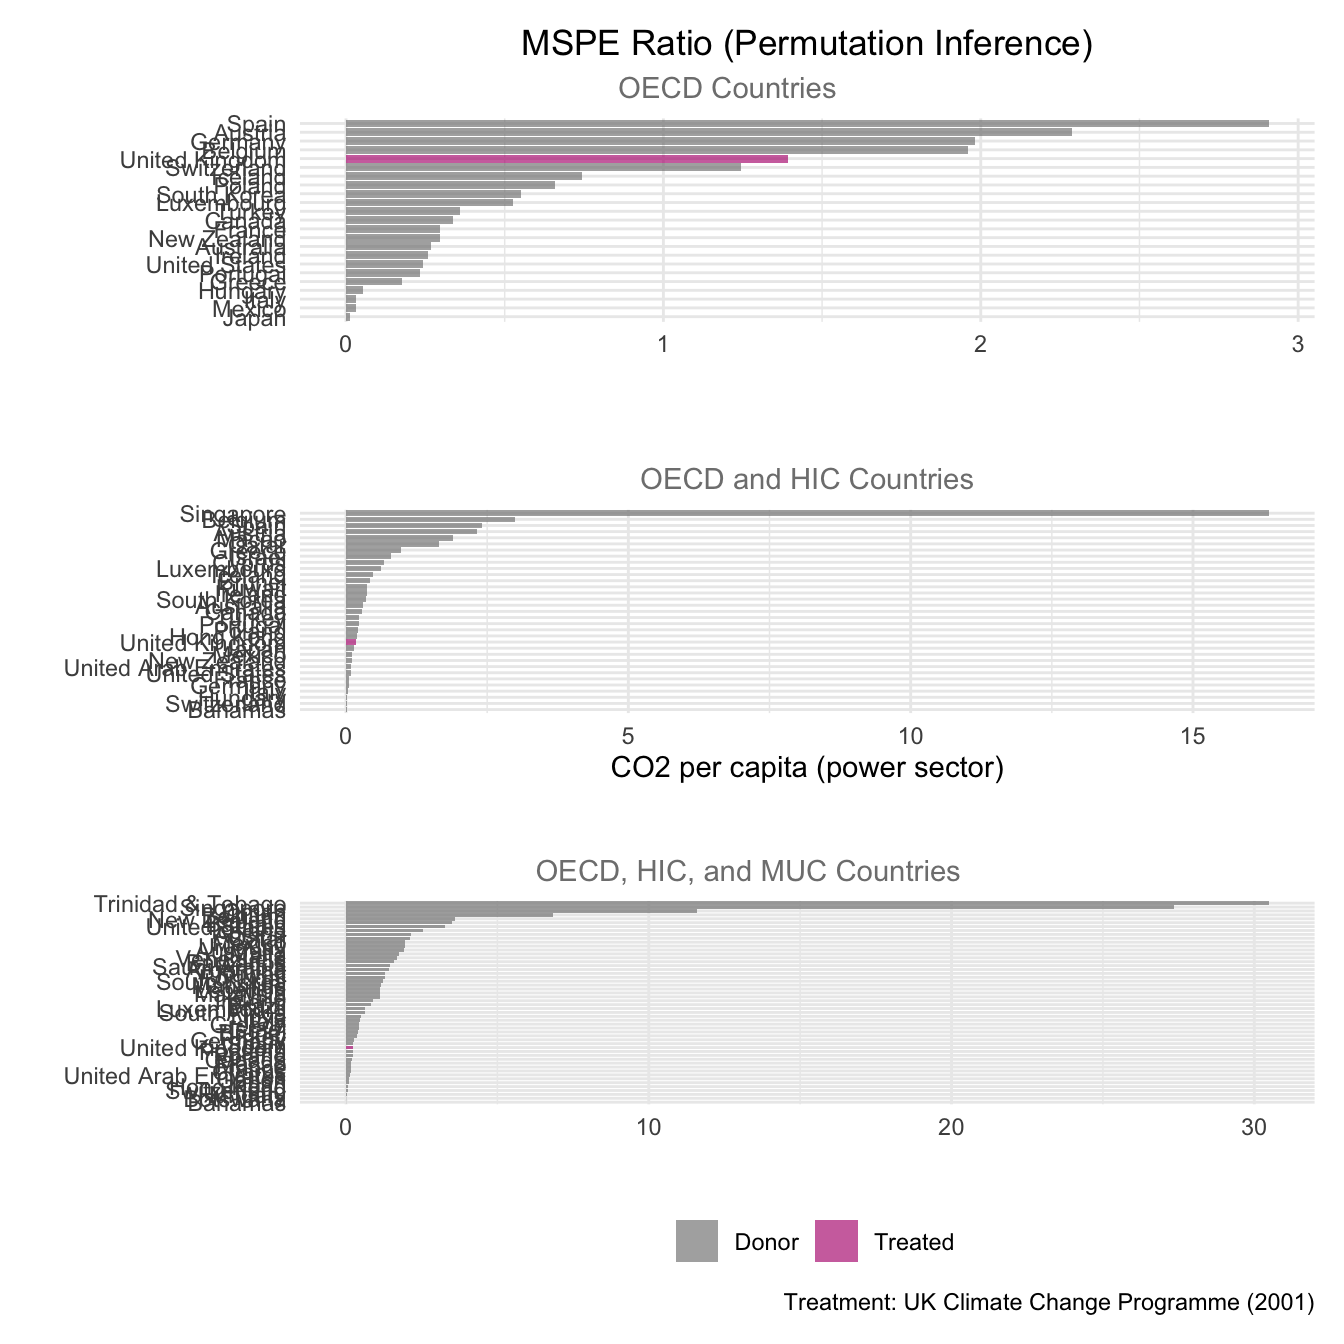
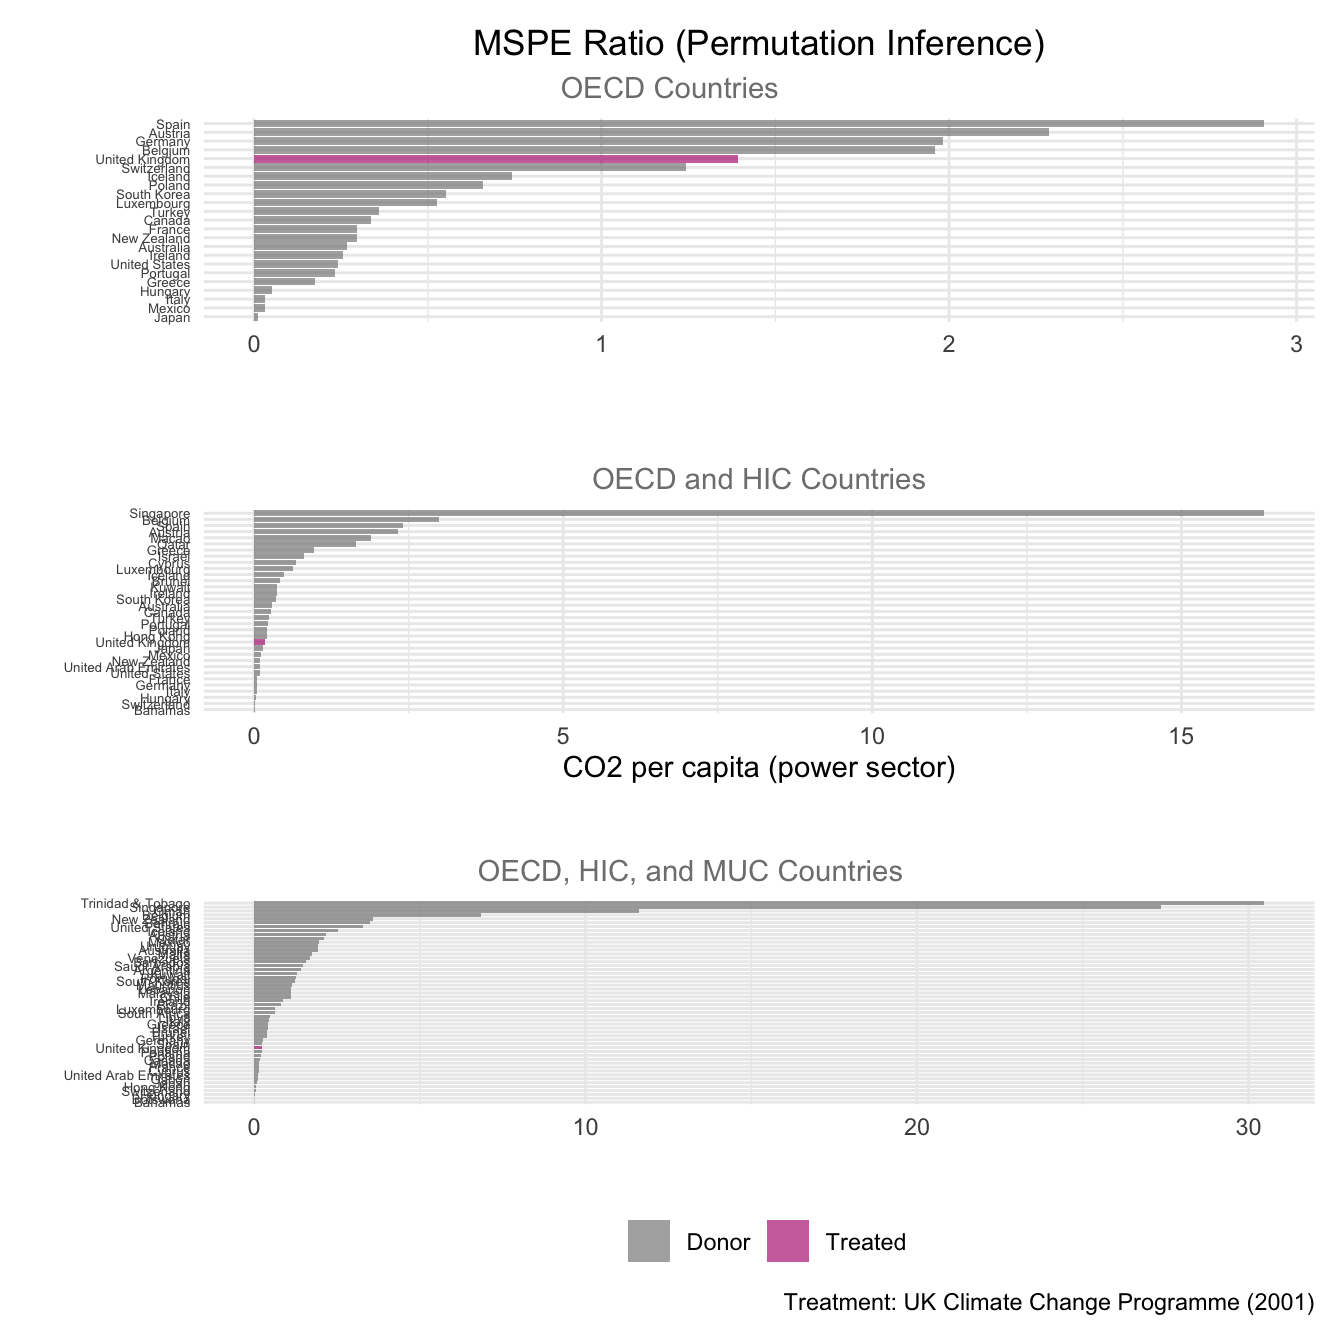
idk what this is. I just want to pull

diff --git a/eds-241-carbon-blog-draft.html b/eds-241-carbon-blog-draft.html
@@ -636,36 +636,42 @@ window.Quarto = {
 <span id="cb11-7"><a href="#cb11-7" aria-hidden="true" tabindex="-1"></a>       <span class="at">caption =</span> <span class="cn">NULL</span>)<span class="sc">+</span></span>
 <span id="cb11-8"><a href="#cb11-8" aria-hidden="true" tabindex="-1"></a>  <span class="fu">theme</span>(<span class="at">legend.position =</span> <span class="st">"none"</span>, </span>
 <span id="cb11-9"><a href="#cb11-9" aria-hidden="true" tabindex="-1"></a>        <span class="at">plot.title =</span> <span class="fu">element_text</span>(<span class="at">hjust =</span> <span class="fl">0.5</span>), </span>
-<span id="cb11-10"><a href="#cb11-10" aria-hidden="true" tabindex="-1"></a>        <span class="at">plot.subtitle =</span> <span class="fu">element_text</span>(<span class="at">color =</span> <span class="st">"grey50"</span>, <span class="at">hjust =</span> <span class="fl">0.4</span>)) </span>
-<span id="cb11-11"><a href="#cb11-11" aria-hidden="true" tabindex="-1"></a></span>
-<span id="cb11-12"><a href="#cb11-12" aria-hidden="true" tabindex="-1"></a></span>
-<span id="cb11-13"><a href="#cb11-13" aria-hidden="true" tabindex="-1"></a><span class="co"># data_OECD_HIC</span></span>
-<span id="cb11-14"><a href="#cb11-14" aria-hidden="true" tabindex="-1"></a>p4_data_OECD_HIC <span class="ot">&lt;-</span> scm_data_OECD_HIC <span class="sc">%&gt;%</span></span>
-<span id="cb11-15"><a href="#cb11-15" aria-hidden="true" tabindex="-1"></a>  <span class="fu">plot_mspe_ratio</span>() <span class="sc">+</span></span>
-<span id="cb11-16"><a href="#cb11-16" aria-hidden="true" tabindex="-1"></a>  <span class="fu">labs</span>(<span class="at">title =</span> <span class="st">""</span>,</span>
-<span id="cb11-17"><a href="#cb11-17" aria-hidden="true" tabindex="-1"></a>       <span class="at">subtitle =</span> <span class="st">"OECD and HIC Countries"</span>,</span>
-<span id="cb11-18"><a href="#cb11-18" aria-hidden="true" tabindex="-1"></a>       <span class="at">y =</span> <span class="st">"CO2 per capita (power sector)"</span>,</span>
-<span id="cb11-19"><a href="#cb11-19" aria-hidden="true" tabindex="-1"></a>       <span class="at">x =</span> <span class="st">""</span>, </span>
-<span id="cb11-20"><a href="#cb11-20" aria-hidden="true" tabindex="-1"></a>       <span class="at">caption =</span> <span class="cn">NULL</span>)<span class="sc">+</span></span>
-<span id="cb11-21"><a href="#cb11-21" aria-hidden="true" tabindex="-1"></a>  <span class="fu">theme</span>(<span class="at">legend.position =</span> <span class="st">"none"</span>, </span>
-<span id="cb11-22"><a href="#cb11-22" aria-hidden="true" tabindex="-1"></a>        <span class="at">plot.title =</span> <span class="fu">element_text</span>(<span class="at">hjust =</span> <span class="fl">0.5</span>), </span>
-<span id="cb11-23"><a href="#cb11-23" aria-hidden="true" tabindex="-1"></a>        <span class="at">plot.subtitle =</span> <span class="fu">element_text</span>(<span class="at">color =</span> <span class="st">"grey50"</span>, <span class="at">hjust =</span> <span class="fl">0.5</span>))</span>
-<span id="cb11-24"><a href="#cb11-24" aria-hidden="true" tabindex="-1"></a></span>
-<span id="cb11-25"><a href="#cb11-25" aria-hidden="true" tabindex="-1"></a></span>
-<span id="cb11-26"><a href="#cb11-26" aria-hidden="true" tabindex="-1"></a><span class="co"># data_OECD_HIC_UMC</span></span>
-<span id="cb11-27"><a href="#cb11-27" aria-hidden="true" tabindex="-1"></a>p4_data_OECD_HIC_UMC <span class="ot">&lt;-</span> scm_data_OECD_HIC_UMC <span class="sc">%&gt;%</span></span>
-<span id="cb11-28"><a href="#cb11-28" aria-hidden="true" tabindex="-1"></a>  <span class="fu">plot_mspe_ratio</span>() <span class="sc">+</span></span>
-<span id="cb11-29"><a href="#cb11-29" aria-hidden="true" tabindex="-1"></a>  <span class="fu">labs</span>(<span class="at">title =</span> <span class="st">""</span>,</span>
-<span id="cb11-30"><a href="#cb11-30" aria-hidden="true" tabindex="-1"></a>       <span class="at">subtitle =</span> <span class="st">"OECD, HIC, and MUC Countries"</span>,</span>
-<span id="cb11-31"><a href="#cb11-31" aria-hidden="true" tabindex="-1"></a>       <span class="at">y =</span> <span class="st">""</span>,</span>
-<span id="cb11-32"><a href="#cb11-32" aria-hidden="true" tabindex="-1"></a>       <span class="at">x =</span> <span class="st">""</span>,</span>
-<span id="cb11-33"><a href="#cb11-33" aria-hidden="true" tabindex="-1"></a>       <span class="at">caption =</span> <span class="st">"Treatment: UK Climate Change Programme (2001)"</span>) <span class="sc">+</span> </span>
-<span id="cb11-34"><a href="#cb11-34" aria-hidden="true" tabindex="-1"></a>  <span class="fu">theme</span>(<span class="at">plot.subtitle =</span> <span class="fu">element_text</span>(<span class="at">color =</span> <span class="st">"grey50"</span>, <span class="at">hjust =</span> <span class="fl">0.4</span>))</span>
-<span id="cb11-35"><a href="#cb11-35" aria-hidden="true" tabindex="-1"></a></span>
-<span id="cb11-36"><a href="#cb11-36" aria-hidden="true" tabindex="-1"></a></span>
-<span id="cb11-37"><a href="#cb11-37" aria-hidden="true" tabindex="-1"></a><span class="co"># Patchwork plots for each dataset on top of one another</span></span>
-<span id="cb11-38"><a href="#cb11-38" aria-hidden="true" tabindex="-1"></a>p4_plot <span class="ot">&lt;-</span> p4_data_OECD <span class="sc">/</span> p4_data_OECD_HIC<span class="sc">/</span> p4_data_OECD_HIC_UMC</span>
-<span id="cb11-39"><a href="#cb11-39" aria-hidden="true" tabindex="-1"></a>p4_plot</span></code></pre></div><button title="Copy to Clipboard" class="code-copy-button"><i class="bi"></i></button></div>
+<span id="cb11-10"><a href="#cb11-10" aria-hidden="true" tabindex="-1"></a>        <span class="at">plot.subtitle =</span> <span class="fu">element_text</span>(<span class="at">color =</span> <span class="st">"grey50"</span>, <span class="at">hjust =</span> <span class="fl">0.4</span>),</span>
+<span id="cb11-11"><a href="#cb11-11" aria-hidden="true" tabindex="-1"></a>        <span class="at">axis.text.y =</span> <span class="fu">element_text</span>(<span class="at">size =</span> <span class="dv">5</span>)</span>
+<span id="cb11-12"><a href="#cb11-12" aria-hidden="true" tabindex="-1"></a>        ) </span>
+<span id="cb11-13"><a href="#cb11-13" aria-hidden="true" tabindex="-1"></a></span>
+<span id="cb11-14"><a href="#cb11-14" aria-hidden="true" tabindex="-1"></a><span class="co"># Then modify the geom layer directly</span></span>
+<span id="cb11-15"><a href="#cb11-15" aria-hidden="true" tabindex="-1"></a><span class="co">#p4_data_OECD$layers[[1]]$geom_params$width &lt;- 0.6  # default is 0.9, smaller = more spacing</span></span>
+<span id="cb11-16"><a href="#cb11-16" aria-hidden="true" tabindex="-1"></a></span>
+<span id="cb11-17"><a href="#cb11-17" aria-hidden="true" tabindex="-1"></a></span>
+<span id="cb11-18"><a href="#cb11-18" aria-hidden="true" tabindex="-1"></a><span class="co"># data_OECD_HIC</span></span>
+<span id="cb11-19"><a href="#cb11-19" aria-hidden="true" tabindex="-1"></a>p4_data_OECD_HIC <span class="ot">&lt;-</span> scm_data_OECD_HIC <span class="sc">%&gt;%</span></span>
+<span id="cb11-20"><a href="#cb11-20" aria-hidden="true" tabindex="-1"></a>  <span class="fu">plot_mspe_ratio</span>() <span class="sc">+</span></span>
+<span id="cb11-21"><a href="#cb11-21" aria-hidden="true" tabindex="-1"></a>  <span class="fu">labs</span>(<span class="at">title =</span> <span class="st">""</span>,</span>
+<span id="cb11-22"><a href="#cb11-22" aria-hidden="true" tabindex="-1"></a>       <span class="at">subtitle =</span> <span class="st">"OECD and HIC Countries"</span>,</span>
+<span id="cb11-23"><a href="#cb11-23" aria-hidden="true" tabindex="-1"></a>       <span class="at">y =</span> <span class="st">"CO2 per capita (power sector)"</span>,</span>
+<span id="cb11-24"><a href="#cb11-24" aria-hidden="true" tabindex="-1"></a>       <span class="at">x =</span> <span class="st">""</span>, </span>
+<span id="cb11-25"><a href="#cb11-25" aria-hidden="true" tabindex="-1"></a>       <span class="at">caption =</span> <span class="cn">NULL</span>)<span class="sc">+</span></span>
+<span id="cb11-26"><a href="#cb11-26" aria-hidden="true" tabindex="-1"></a>  <span class="fu">theme</span>(<span class="at">legend.position =</span> <span class="st">"none"</span>, </span>
+<span id="cb11-27"><a href="#cb11-27" aria-hidden="true" tabindex="-1"></a>        <span class="at">plot.title =</span> <span class="fu">element_text</span>(<span class="at">hjust =</span> <span class="fl">0.5</span>), </span>
+<span id="cb11-28"><a href="#cb11-28" aria-hidden="true" tabindex="-1"></a>        <span class="at">plot.subtitle =</span> <span class="fu">element_text</span>(<span class="at">color =</span> <span class="st">"grey50"</span>, <span class="at">hjust =</span> <span class="fl">0.5</span>), </span>
+<span id="cb11-29"><a href="#cb11-29" aria-hidden="true" tabindex="-1"></a>        <span class="at">axis.text.y =</span> <span class="fu">element_text</span>(<span class="at">size =</span> <span class="dv">5</span>))</span>
+<span id="cb11-30"><a href="#cb11-30" aria-hidden="true" tabindex="-1"></a></span>
+<span id="cb11-31"><a href="#cb11-31" aria-hidden="true" tabindex="-1"></a></span>
+<span id="cb11-32"><a href="#cb11-32" aria-hidden="true" tabindex="-1"></a><span class="co"># data_OECD_HIC_UMC</span></span>
+<span id="cb11-33"><a href="#cb11-33" aria-hidden="true" tabindex="-1"></a>p4_data_OECD_HIC_UMC <span class="ot">&lt;-</span> scm_data_OECD_HIC_UMC <span class="sc">%&gt;%</span></span>
+<span id="cb11-34"><a href="#cb11-34" aria-hidden="true" tabindex="-1"></a>  <span class="fu">plot_mspe_ratio</span>() <span class="sc">+</span></span>
+<span id="cb11-35"><a href="#cb11-35" aria-hidden="true" tabindex="-1"></a>  <span class="fu">labs</span>(<span class="at">title =</span> <span class="st">""</span>,</span>
+<span id="cb11-36"><a href="#cb11-36" aria-hidden="true" tabindex="-1"></a>       <span class="at">subtitle =</span> <span class="st">"OECD, HIC, and MUC Countries"</span>,</span>
+<span id="cb11-37"><a href="#cb11-37" aria-hidden="true" tabindex="-1"></a>       <span class="at">y =</span> <span class="st">""</span>,</span>
+<span id="cb11-38"><a href="#cb11-38" aria-hidden="true" tabindex="-1"></a>       <span class="at">x =</span> <span class="st">""</span>,</span>
+<span id="cb11-39"><a href="#cb11-39" aria-hidden="true" tabindex="-1"></a>       <span class="at">caption =</span> <span class="st">"Treatment: UK Climate Change Programme (2001)"</span>) <span class="sc">+</span> </span>
+<span id="cb11-40"><a href="#cb11-40" aria-hidden="true" tabindex="-1"></a>  <span class="fu">theme</span>(<span class="at">plot.subtitle =</span> <span class="fu">element_text</span>(<span class="at">color =</span> <span class="st">"grey50"</span>, <span class="at">hjust =</span> <span class="fl">0.4</span>), </span>
+<span id="cb11-41"><a href="#cb11-41" aria-hidden="true" tabindex="-1"></a>        <span class="at">axis.text.y =</span> <span class="fu">element_text</span>(<span class="at">size =</span> <span class="dv">5</span>))</span>
+<span id="cb11-42"><a href="#cb11-42" aria-hidden="true" tabindex="-1"></a></span>
+<span id="cb11-43"><a href="#cb11-43" aria-hidden="true" tabindex="-1"></a><span class="co"># Patchwork plots for each dataset on top of one another</span></span>
+<span id="cb11-44"><a href="#cb11-44" aria-hidden="true" tabindex="-1"></a>p4_plot <span class="ot">&lt;-</span> p4_data_OECD <span class="sc">/</span> p4_data_OECD_HIC<span class="sc">/</span> p4_data_OECD_HIC_UMC</span>
+<span id="cb11-45"><a href="#cb11-45" aria-hidden="true" tabindex="-1"></a>p4_plot</span></code></pre></div><button title="Copy to Clipboard" class="code-copy-button"><i class="bi"></i></button></div>
 <div class="cell-output-display">
 <div>
 <figure class="figure">
